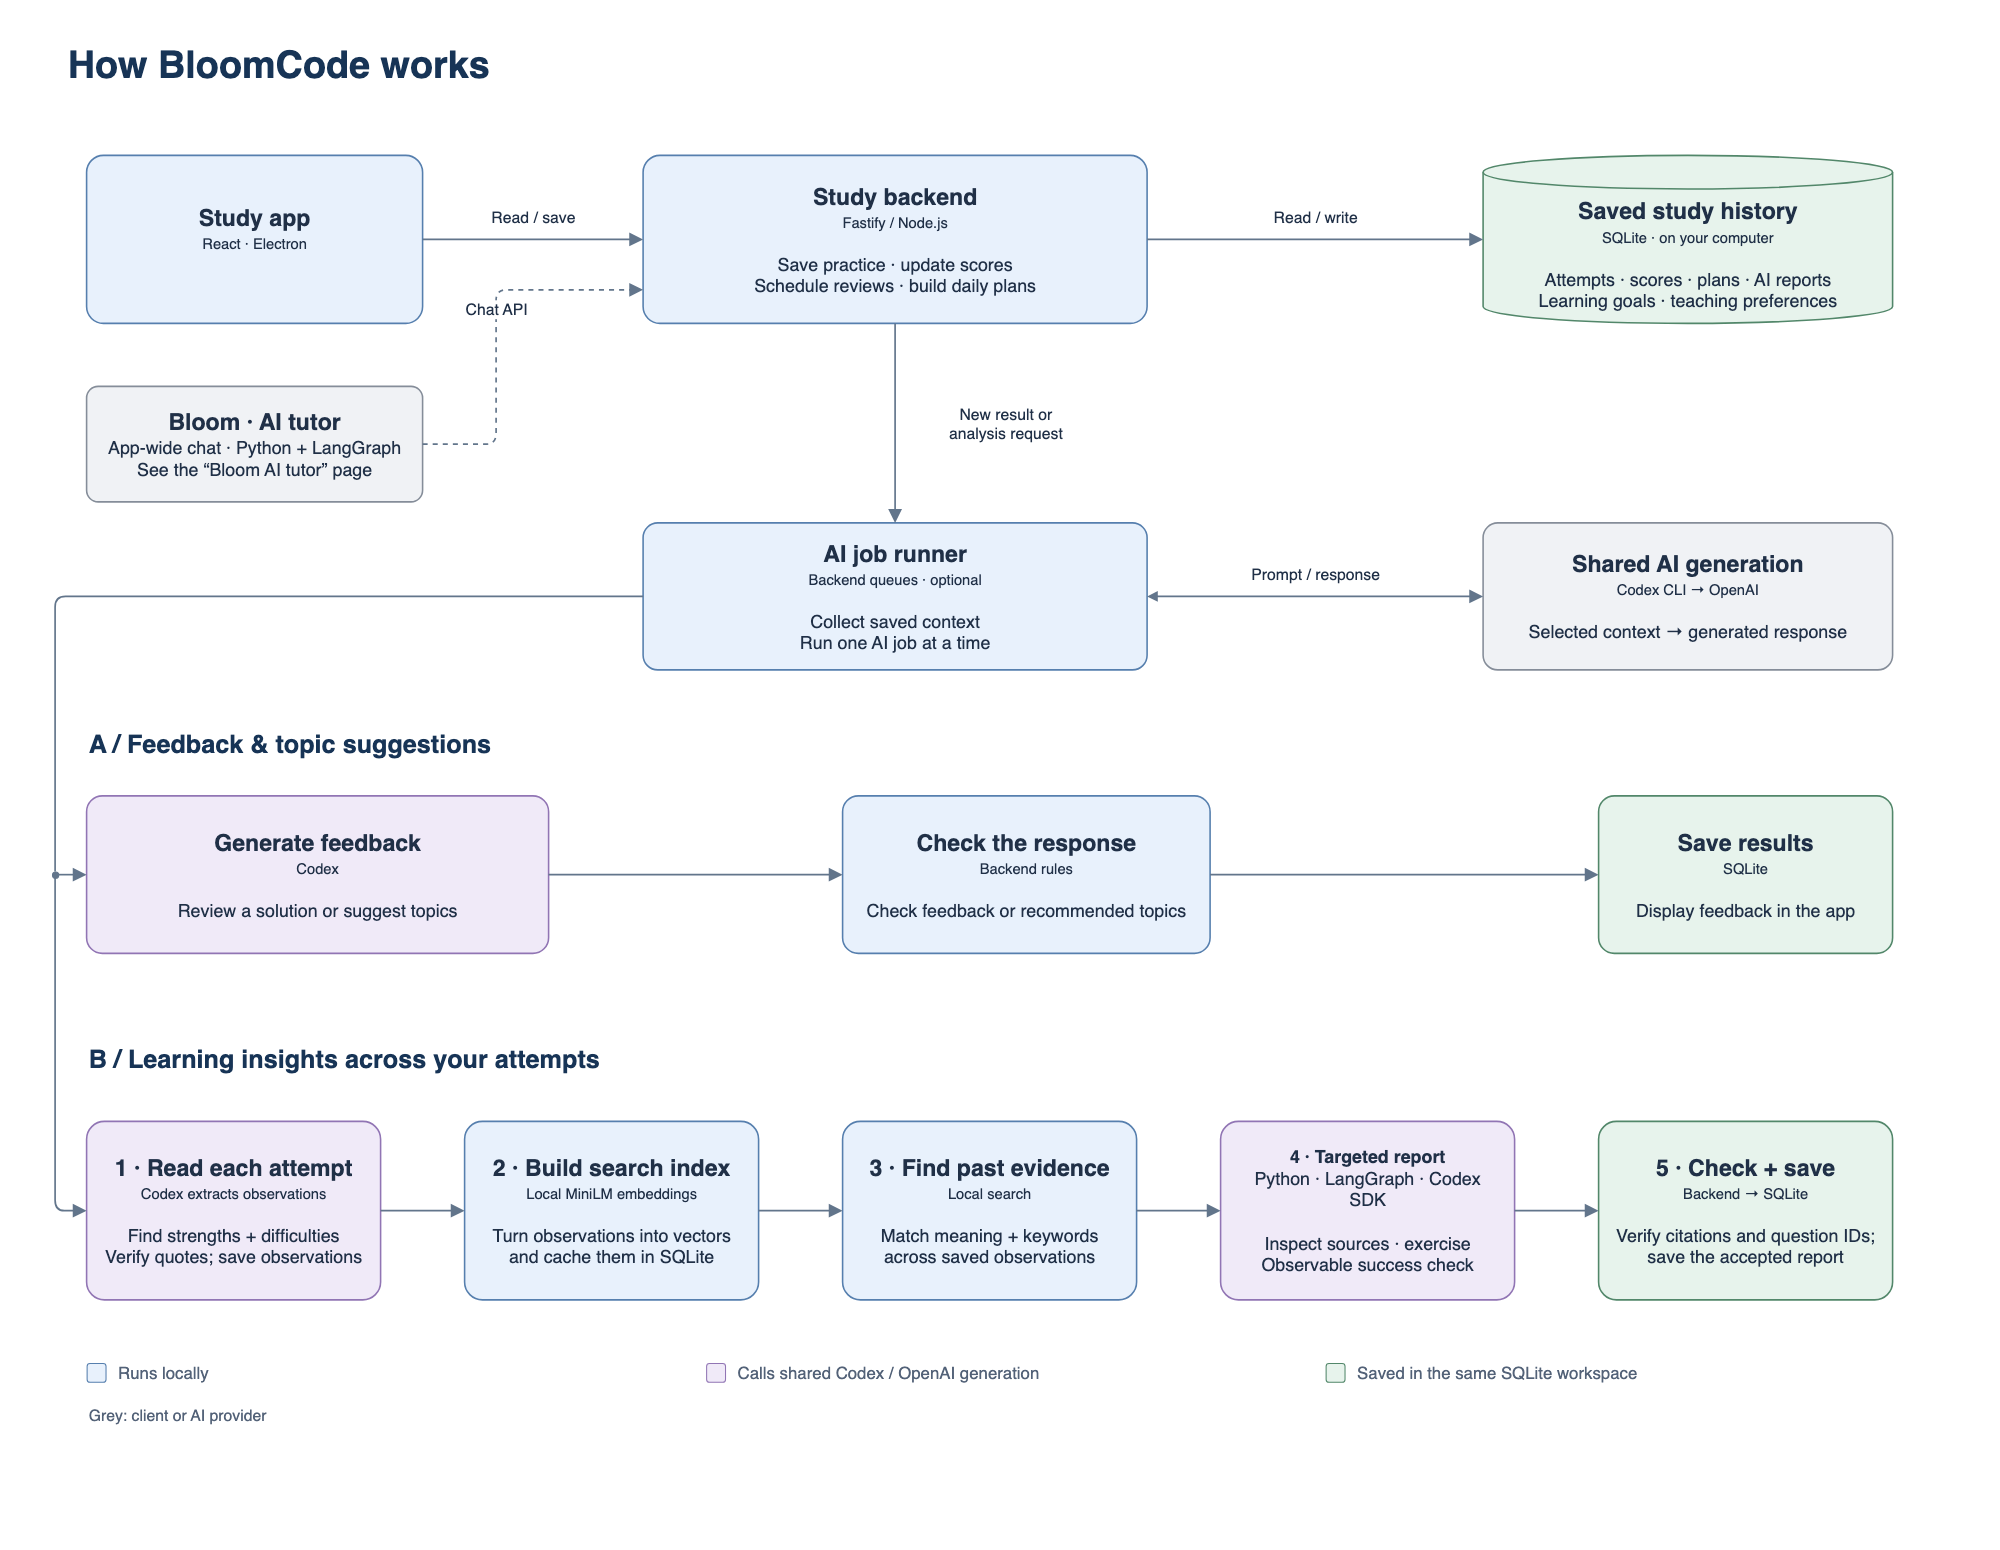
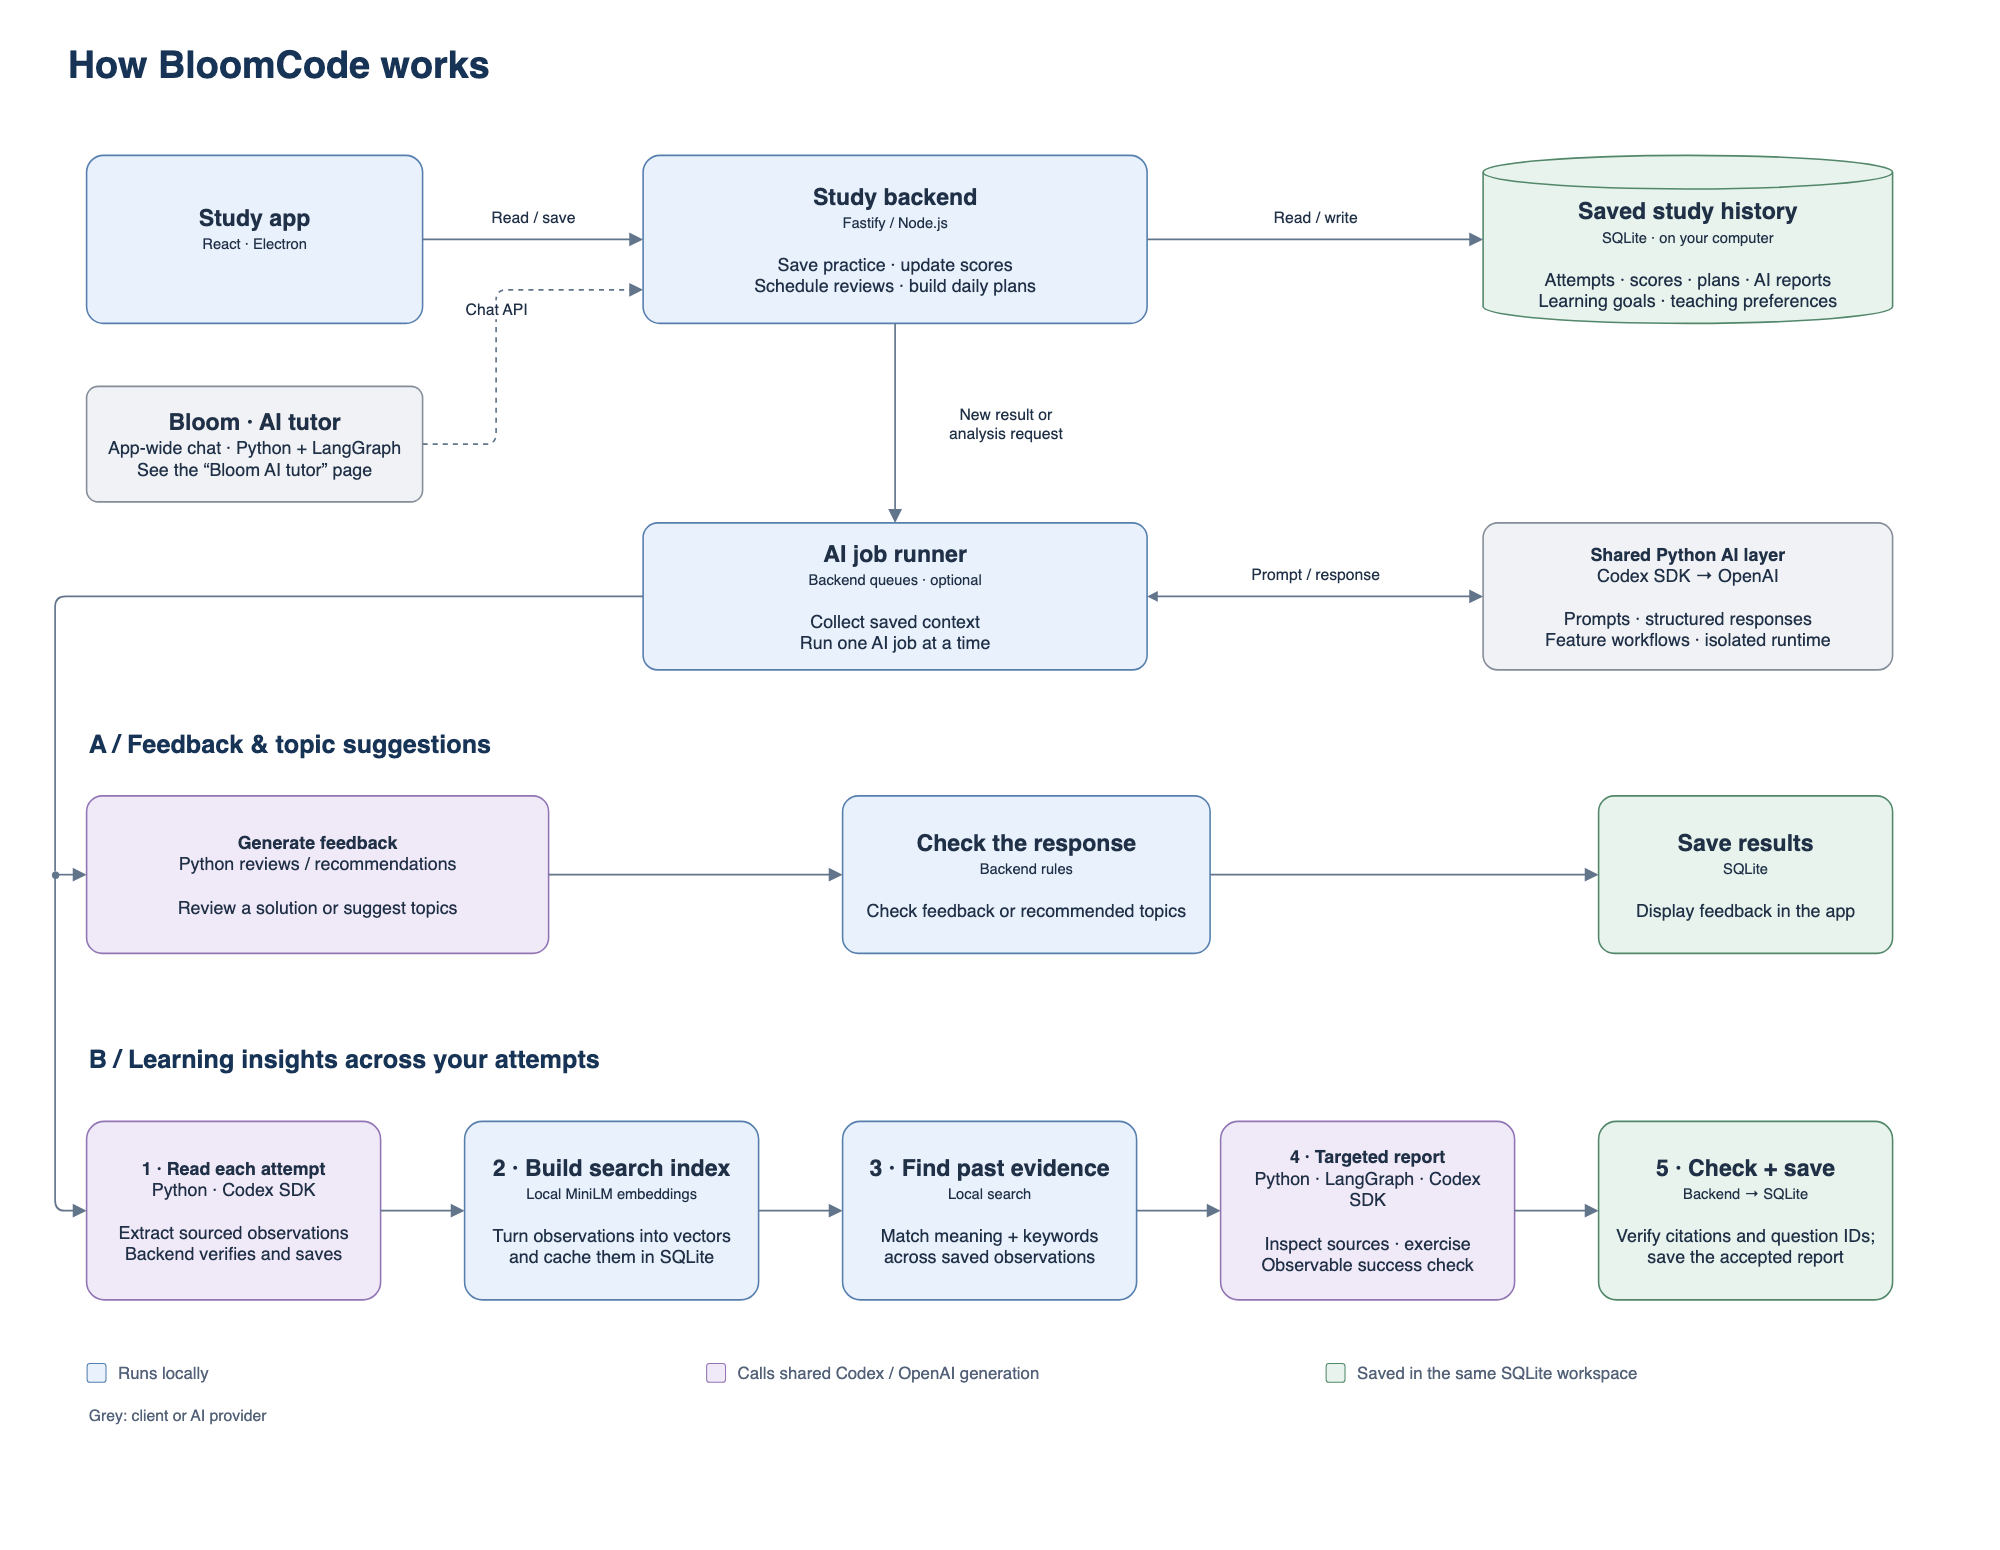
docs(ai): document Python ownership of all LLM features

Changed region(s): [[0.775, 0.3406, 0.93, 0.4335], [0.062, 0.7432, 0.186, 0.8361], [0.093, 0.5265, 0.217, 0.5884]]

diff --git a/docs/tutor-integration.md b/docs/tutor-integration.md
@@ -27,7 +27,7 @@ The adapter only provides tools; it runs no background work. Ask your tutor to r
 
 **Settings → AI tutor** chooses who generates tutor reports, Learning Insights and topic picks:
 
-- **Codex (your ChatGPT plan)**: the app runs your signed-in Codex CLI for each job. No MCP client needs to be open. **Test Codex** checks the setup.
+- **Codex (your ChatGPT plan)**: the app sends tasks to its Python AI layer, which uses the signed-in Codex SDK. No MCP client needs to be open. **Test Codex** checks the setup.
 - **Off**: the default, so no plan usage is spent until you choose Codex. Jobs stay queued and saved work is unaffected.
 
 The MCP tools work with either setting. An older workspace saved with the removed MCP-sampling provider loads as **Off**.
@@ -35,7 +35,8 @@ The MCP tools work with either setting. An older workspace saved with the remove
 ### Codex
 
 - **Detection**: the app looks for the Codex CLI bundled in ChatGPT.app first, then `~/.local/bin`, `/opt/homebrew/bin` and `/usr/local/bin`. Older standalone CLIs may reject newer models for ChatGPT accounts. You can set the path under **Advanced**; it must end in `codex`.
-- **Isolation**: each job runs in an empty temporary directory with a read-only sandbox, with the user configuration ignored (no MCP servers), with shell, browser and other tools disabled, and with no session files. The prompt is sent on stdin. Codex's own instructions are replaced with a short generator instruction, which leaves about 8k tokens of fixed overhead per call. Only the final message is used, and it passes the same validation as every tutor result.
+- **Python setup**: install the dependencies in [python/README.md](../python/README.md). All LLM features require Python and file-based Codex sign-in. Keyring-only sign-in is not supported. **Test Codex** checks this same runtime.
+- **Isolation**: each background job uses an isolated temporary Codex configuration, an empty workspace, a read-only sandbox and disabled model tools. Python owns prompts and structured generation. Only task data crosses the host bridge; Fastify validates results before saving. Conversations use their separate persistent runtime.
 - **Defaults**: model `gpt-6-luna`. Reasoning effort is high for tutor reports, attempt analysis and topic picks, and xhigh for the learning report. All of these can be changed under **Advanced**.
 - **Usage**: usage counts toward your ChatGPT plan limits. After a usage-limit, sign-in, missing-install or unavailable-model error, the app pauses and shows the reason instead of failing every queued job. Saving the settings or a successful test resumes work.
 - **Privacy**: saved code, notes and problem metadata for each job go to OpenAI.

diff --git a/python/README.md b/python/README.md
@@ -46,7 +46,10 @@ Without a token file, chat runs without platform context or tools.
 python/
 ├── chat.py                 # Terminal entry point
 ├── worker.py               # JSON-lines bridge for the app
-├── insights_worker.py      # Stateless report worker
+├── ai_worker.py            # Task dispatch for background LLM work
+├── insights_worker.py      # Report graph and host validation protocol
+├── reviews/                # Attempt feedback
+├── recommendations/        # Topic priorities
 ├── ai_core/                # Shared runtime, model, evidence and protocol
 ├── insights/               # Targeted Learning Insights graph
 ├── tutor/
@@ -134,8 +137,8 @@ model call and at most one correction across all validation stages.
 Reports use Settings' model and report reasoning effort. They require the same
 Python dependencies and file-based sign-in as Bloom, but use temporary isolated
 sessions without Bloom's conversation lock. Missing setup fails the report clearly;
-saved reports remain readable. Attempt extraction, attempt reviews and topic picks
-still use the TypeScript Codex runner. Python is not yet bundled for release.
+saved reports remain readable. Attempt extraction, attempt reviews, topic picks and the connection test also
+run through Python. Fastify sends task data, never model prompts. Python is not yet bundled for release.
 
 New reports include a specific action, exercise and success check. Source verification
 checks provenance, not whether a diagnosis is correct. Sparse evidence can produce
@@ -154,3 +157,17 @@ are saved to ignored `private/insights-comparison/`. Review `comparison.md` for
 specificity, supporting evidence, exercise relevance and a useful success check;
 a valid response is not automatically a better one. The legacy prompt exists only
 in the evaluation harness and is not a production fallback.
+
+## Responsibility boundary
+
+All application LLM behavior lives here: prompts, Codex calls, response schemas,
+feedback formatting, conversation policy and LangGraph workflows. The ordinary
+background tasks in `reviews/`, `insights/extract.py` and `recommendations/` use one
+structured model call; they do not need a graph. Fastify owns queue priority,
+deadlines, permissions, validation against authoritative records, and persistence.
+The shared TypeScript process bridge only transports requests and results.
+
+Local embedding inference, vector storage and ranking remain retrieval infrastructure
+in the backend. They do not use an LLM. The retired TypeScript inference runner has
+been removed; its remaining `codex.ts` module only discovers the executable/version
+and defines the host error type.

diff --git a/docs/architecture/README.md b/docs/architecture/README.md
@@ -6,7 +6,7 @@
 
 Read top to bottom, then follow either background AI path from left to right.
 Purple steps call Codex and OpenAI; blue steps run locally; green steps save to
-the same SQLite workspace. The report step now runs in a Python worker; extraction remains in TypeScript.
+the same SQLite workspace. All LLM calls run in Python; Fastify owns the queues and validates writes.
 Bloom's interactive conversation is a separate Python worker, detailed below.
 
 ## Bloom AI tutor
@@ -84,5 +84,8 @@ only evidence reads and candidate validation cross back to the parent. At most t
 model calls share one deadline. Access changes, cancellation or stale evidence stop
 work. Missing Python/sign-in is an explicit report error, not a legacy fallback.
 
-Reviews, extraction and topic recommendations still use the TypeScript runner.
-They can adopt shared Python capabilities later without changing study storage.
+Reviews, extraction, topic recommendations and the connection test run through
+`python/ai_worker.py` using the same runtime. Each uses one structured call;
+only multi-step workflows use LangGraph. TypeScript contains no application LLM
+prompts or inference runner. Embedding inference, vector storage and ranking
+remain backend retrieval infrastructure.

diff --git a/README.md b/README.md
@@ -86,7 +86,7 @@ The app backs up once a day at startup; run `npm run backup` while it is running
 
 - [Question packs and extensions](docs/extensions.md) — add your own lists or integrations.
 - [Learning Insights](docs/learning-insights.md) — local semantic retrieval, evidence-backed learning patterns, and optional practice suggestions.
-- [Optional AI tutor](docs/tutor-integration.md) — automatic reports through the Codex CLI, plus MCP tools for chatting with a tutor about your study data.
+- [Optional AI tutor](docs/tutor-integration.md) — automatic reports through the Python AI layer and Codex SDK, plus MCP tools for chatting with a tutor about your study data.
 - [Contributing](CONTRIBUTING.md) · [Testing](docs/testing.md)
 
 ## Why BloomCode?
